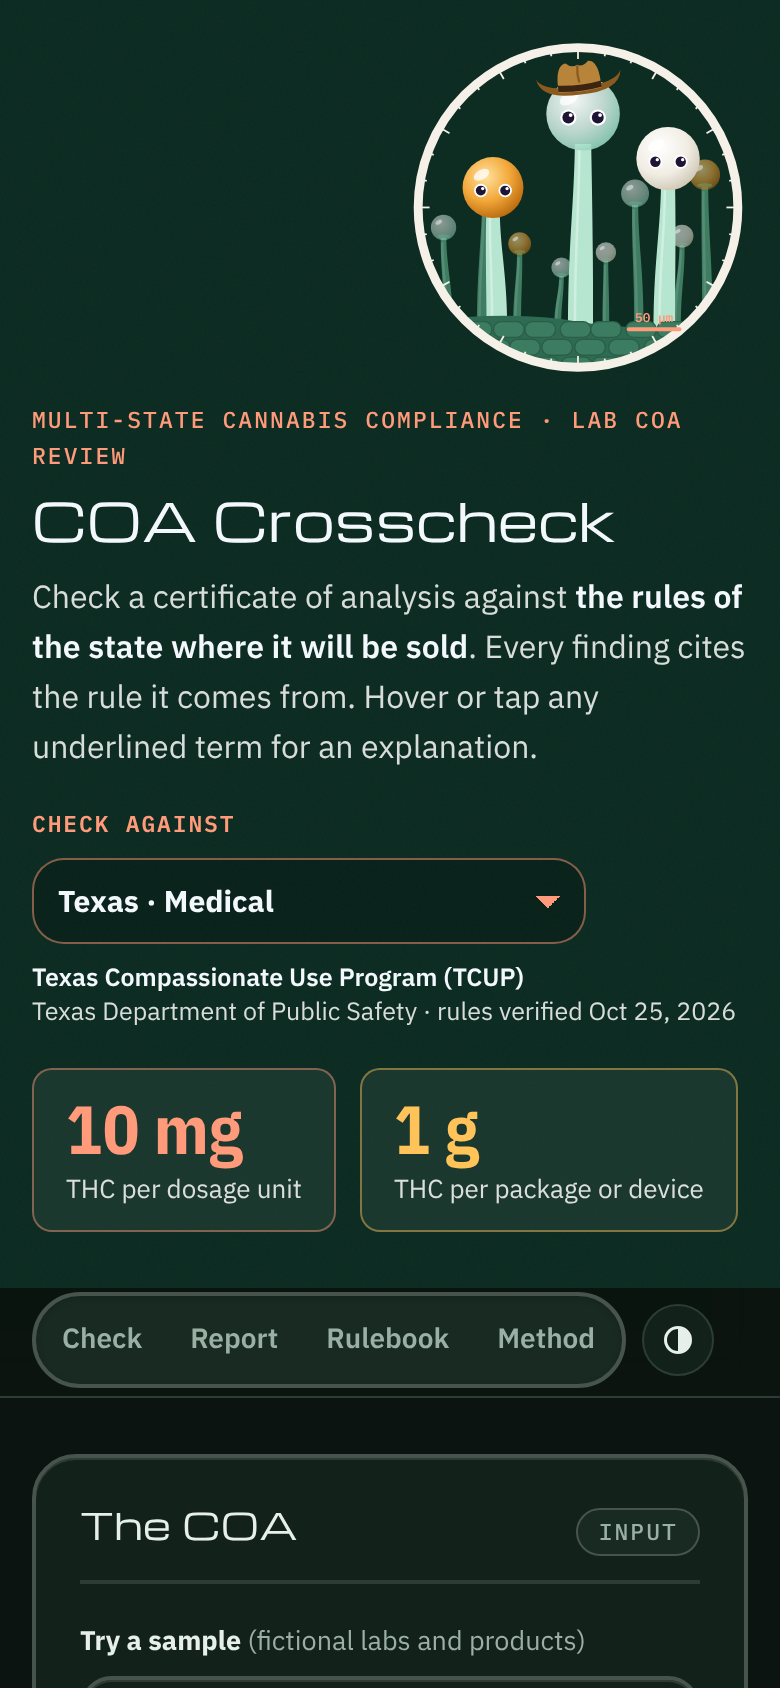
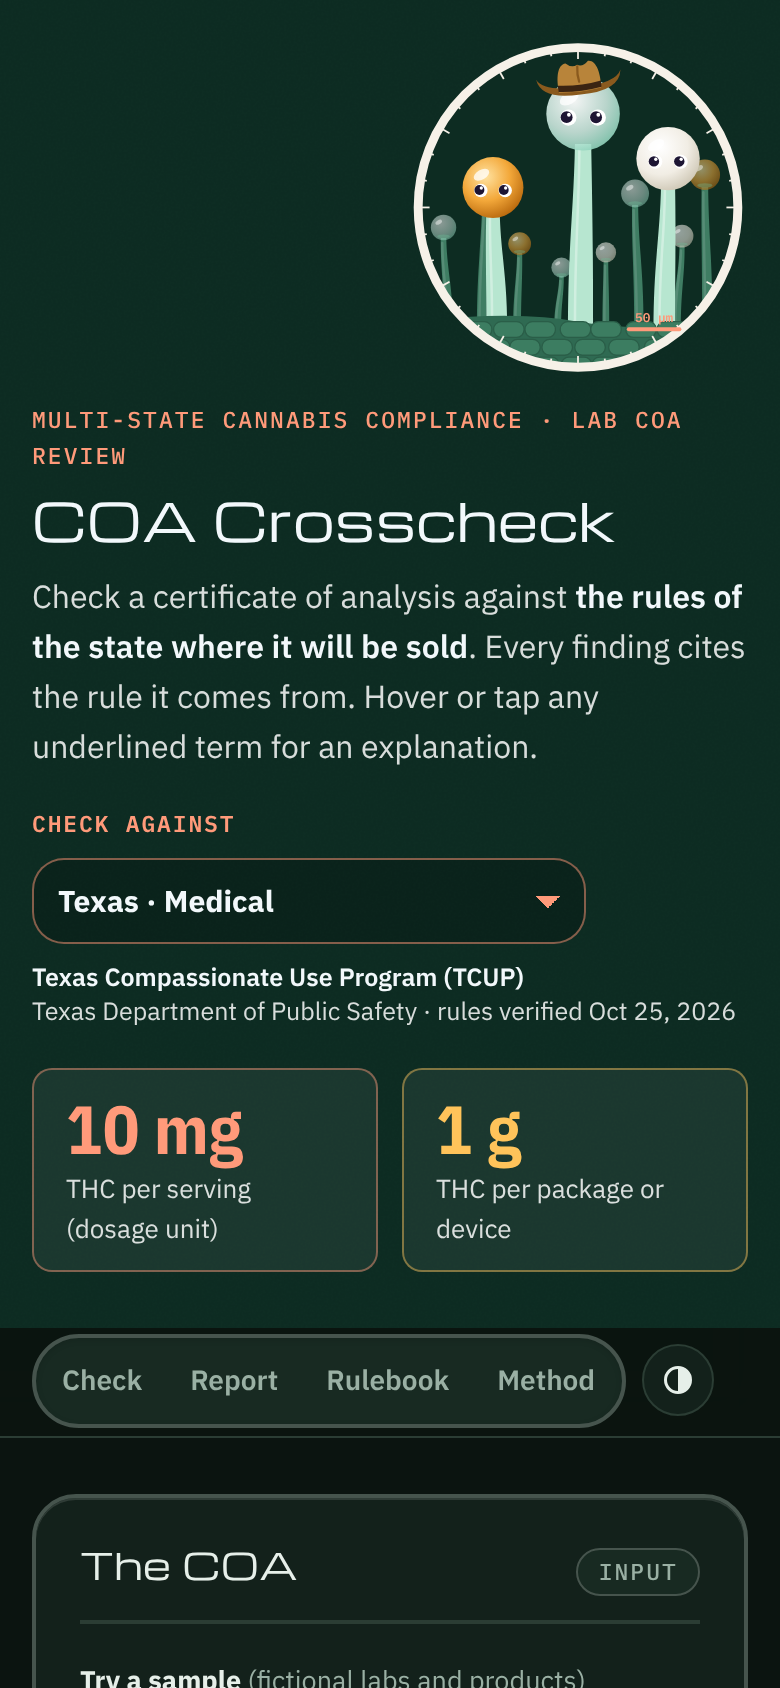
Same two limit cards for every rulebook; note on reading images
Claude-Session: https://claude.ai/code/session_015yPtfQqF6qhWv7vaAJmnzU

Changed region(s): [[0.0308, 0.6161, 0.9538, 1.0], [0.9231, 0.6161, 0.9538, 0.6469]]

diff --git a/src/rules.js b/src/rules.js
@@ -175,7 +175,7 @@ const RULES = (() => {
     {
       id: "TX-MED", state: "Texas", stateCode: "TX", market: "Medical", program: "Texas Compassionate Use Program (TCUP)",
       regulator: "Texas Department of Public Safety", verified: "2026-10-25",
-      headline: [{ big: "10 mg", small: "THC per dosage unit" }, { big: "1 g", small: "THC per package or device" }],
+      headline: [{ big: "10 mg", small: "THC per serving (dosage unit)" }, { big: "1 g", small: "THC per package or device" }],
       totalThcKeys: ALL_THC,
       totalThcText: "All tetrahydrocannabinols: Δ9 + Δ8 + Δ10 + exo-THC + THCA × 0.877. The statute caps \"tetrahydrocannabinols,\" not only Δ9-THC.",
       limits: [
@@ -207,7 +207,7 @@ const RULES = (() => {
     {
       id: "MO", state: "Missouri", stateCode: "MO", market: "Medical & adult-use", program: "Missouri medical and adult-use marijuana",
       regulator: "Division of Cannabis Regulation (DCR)", verified: "2026-10-25",
-      headline: [{ big: "2,400 mg", small: "THC per infused-product package (3 oz equivalent)" }, { big: "0.5 ppm", small: "Lead limit, all products" }],
+      headline: [{ big: "No cap", small: "THC per serving (none in this rulebook)" }, { big: "2,400 mg", small: "THC per package (infused products, 3 oz equivalent)" }],
       totalThcKeys: D9_THCA,
       altThc: { keys: ["d9"], label: "Δ9-THC only",
         note: "Missouri's rule says \"800 mg of THC\" without defining which THC. The checker computes both total THC (THC + THCA × 0.877) and Δ9-THC only, and asks for review when they land on opposite sides of the limit." },
@@ -260,7 +260,7 @@ const RULES = (() => {
     }),
     Object.assign(coBase("Medical"), {
       id: "CO-MED", program: "Colorado medical marijuana",
-      headline: [{ big: "±15%", small: "Label potency tolerance (over 2.5 mg/serving)" }, { big: "0.2 ppm", small: "Arsenic limit, inhaled" }],
+      headline: [{ big: "No cap", small: "THC per serving (medical edibles)" }, { big: "No cap", small: "THC per package (medical edibles)" }],
       limits: [],
       limitsNote: "Colorado sets no per-serving or per-package THC cap for medical edibles. The product must match its labeled THC within the potency variance.",
     }),
@@ -287,7 +287,7 @@ const RULES = (() => {
     {
       id: "US-HEMP", state: "Federal hemp", stateCode: "US", market: "Hemp-derived products (all states)", program: "Federal hemp definition",
       regulator: "Federal law (USDA / FDA); states add their own rules", verified: "2026-10-25",
-      headline: [{ big: "0.4 mg", small: "Total THC per container (from Dec 11, 2026)" }, { big: "0.3%", small: "Total THC, dry weight" }],
+      headline: [{ big: "No cap", small: "THC per serving (no federal limit)" }, { big: "0.4 mg", small: "Total THC per container (from Dec 11, 2026)" }],
       totalThcKeys: ALL_THC,
       totalThcText: "Total THC includes Δ9-THC, THCA (× 0.877), and other cannabinoids with similar effects, such as Δ8.",
       limits: [

diff --git a/index.html b/index.html
@@ -9,14 +9,14 @@
 <meta property="og:title" content="COA Crosscheck">
 <meta property="og:description" content="Check a cannabis COA against state rules, with a citation for every finding.">
 <meta property="og:image" content="docs/screenshot-desktop.png">
-<link rel="icon" href="favicon.svg?v=2026-11-02b" type="image/svg+xml">
-<link rel="icon" href="favicon-32.png?v=2026-11-02b" type="image/png" sizes="32x32">
-<link rel="apple-touch-icon" href="apple-touch-icon.png?v=2026-11-02b">
+<link rel="icon" href="favicon.svg?v=2026-11-02c" type="image/svg+xml">
+<link rel="icon" href="favicon-32.png?v=2026-11-02c" type="image/png" sizes="32x32">
+<link rel="apple-touch-icon" href="apple-touch-icon.png?v=2026-11-02c">
 <link rel="preconnect" href="https://fonts.googleapis.com">
 <link rel="preconnect" href="https://fonts.gstatic.com" crossorigin>
 <link rel="stylesheet" href="https://fonts.googleapis.com/css2?family=IBM+Plex+Mono:wght@400;500;600&family=Michroma&family=IBM+Plex+Sans+Condensed:wght@600;700&family=IBM+Plex+Sans:wght@400;500;600;700&display=swap">
-<link rel="stylesheet" href="src/styles.css?v=2026-11-02b">
-<link rel="stylesheet" href="src/retro.css?v=2026-11-02b">
+<link rel="stylesheet" href="src/styles.css?v=2026-11-02c">
+<link rel="stylesheet" href="src/retro.css?v=2026-11-02c">
 </head>
 <body>
 <a class="skip" href="#report">Skip to the report</a>
@@ -124,6 +124,7 @@
         <span>Or drop a PDF or text file, or</span>
         <button type="button" class="linkbtn" id="pick">choose a file</button>
         <span id="attached"></span>
+        <p class="drop-note">Photos and scanned PDFs need an AI model to read them: open <b>Use a local AI model</b> or <b>Use a cloud AI model</b> below.</p>
       </div>
       <form class="fetch" id="fetchForm" hidden>
         <label class="lbl" for="url">Or fetch from a COA link</label>
@@ -219,12 +220,12 @@
   </footer>
 </main>
 
-<script src="src/header-art.js?v=2026-11-02b"></script>
-<script src="src/core.js?v=2026-11-02b"></script>
-<script src="src/rules.js?v=2026-11-02b"></script>
-<script src="src/glossary.js?v=2026-11-02b"></script>
-<script src="src/samples.js?v=2026-11-02b"></script>
-<script src="embed/coa-card.js?v=2026-11-02b"></script>
-<script src="src/app.js?v=2026-11-02b"></script>
+<script src="src/header-art.js?v=2026-11-02c"></script>
+<script src="src/core.js?v=2026-11-02c"></script>
+<script src="src/rules.js?v=2026-11-02c"></script>
+<script src="src/glossary.js?v=2026-11-02c"></script>
+<script src="src/samples.js?v=2026-11-02c"></script>
+<script src="embed/coa-card.js?v=2026-11-02c"></script>
+<script src="src/app.js?v=2026-11-02c"></script>
 </body>
 </html>

diff --git a/src/styles.css b/src/styles.css
@@ -96,6 +96,7 @@ textarea#coa:focus { border-color: var(--accent); outline: none; box-shadow: 0 0
 .drop { border: 2px dashed var(--rule); border-radius: var(--r); padding: 12px 14px; display: flex; align-items: center; gap: 10px; flex-wrap: wrap; font-size: 13.5px; color: var(--muted); }
 .drop.over { border-color: var(--accent); background: var(--accent-soft); }
 .drop input { display: none; }
+.drop-note { flex-basis: 100%; margin: 0; font-size: 12.5px; color: var(--muted); }
 .linkbtn { background: none; border: 0; padding: 0; color: var(--accent); font-weight: 700; cursor: pointer; text-decoration: underline; text-underline-offset: 3px; }
 .chip { display: inline-flex; align-items: center; gap: 6px; font-family: var(--f-mono); font-size: 12px; padding: 3px 8px; border-radius: 999px; background: var(--accent-soft); color: var(--ink); font-weight: 500; }
 .chip button { background: none; border: 0; cursor: pointer; color: var(--muted); padding: 0 2px; font-size: 14px; line-height: 1; }
@@ -257,7 +258,7 @@ tr.bad td { color: var(--fail); font-weight: 700; }
 .picker select option, .picker select optgroup { color: #0d1c25; background: #ffffff; }
 .picker-meta { flex-basis: 100%; display: flex; flex-direction: column; font-size: 12.5px; color: var(--band-soft); line-height: 1.35; min-width: 0; }
 .picker-meta span:first-child { color: var(--band-ink); font-weight: 600; }
-.band .limits { margin-top: 20px; }
+.band .limits { margin-top: 20px; display: grid; grid-template-columns: repeat(2, minmax(0, 220px)); }   /* two cards, the same size for every rulebook */
 .limit span { max-width: 190px; }
 
 /* ---------- glossary terms and tooltip ---------- */
